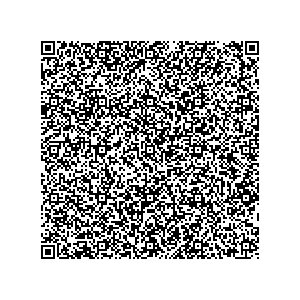
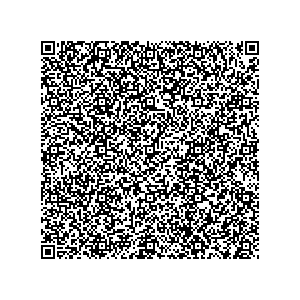
CH - Added new test data for Switzerland created with current release 1.1.

Changed region(s): [[0.12, 0.12, 0.87, 0.87]]

diff --git a/CH/README.md b/CH/README.md
@@ -9,7 +9,7 @@ The software used to produce the QR codes can be found at https://github.com/adm
 
 ### 1 - Vaccination
 
-[1.json](2DCode/raw/1.json) - Basic DGC with one vaccination entry. 
+[1.json](2DCode/raw/1.json) - Basic DGC with one vaccination entry (created with release 1.1).
 
 All tests should be successful.
 
@@ -19,7 +19,7 @@ All tests should be successful.
 
 ### 2 - Test
 
-[2.json](2DCode/raw/2.json) - Basic DGC with one test entry. 
+[2.json](2DCode/raw/2.json) - Basic DGC with one test entry (created with release 1.1).
 
 All tests should be successful.
 
@@ -29,7 +29,7 @@ All tests should be successful.
 
 ### 3 - Recovery
 
-[3.json](2DCode/raw/3.json) - Basic DGC with one test entry.
+[3.json](2DCode/raw/3.json) - Basic DGC with one test entry (created with release 1.1).
 
 All tests should be successful.
 
@@ -37,18 +37,9 @@ All tests should be successful.
 
 ![3](png/3.png)
 
-
-
-
-
-
-
-
-
-
 ### 4 - Vaccination
 
-[4.json](2DCode/raw/4.json) - Basic DGC with one vaccination entry. Optional claim "iss" has been changed to "CH".
+[4.json](2DCode/raw/4.json) - Basic DGC with one vaccination entry (created with release 1.0). 
 
 All tests should be successful.
 
@@ -58,7 +49,7 @@ All tests should be successful.
 
 ### 5 - Test
 
-[5.json](2DCode/raw/5.json) - Basic DGC with one test entry. Optional claim "iss" has been changed to "CH".
+[5.json](2DCode/raw/5.json) - Basic DGC with one test entry (created with release 1.0). 
 
 All tests should be successful.
 
@@ -68,10 +59,40 @@ All tests should be successful.
 
 ### 6 - Recovery
 
-[6.json](2DCode/raw/6.json) - Basic DGC with one test entry. Optional claim "iss" has been changed to "CH".
+[6.json](2DCode/raw/6.json) - Basic DGC with one test entry (created with release 1.0).
 
 All tests should be successful.
 
 [6.png](png/6.png)
 
 ![6](png/6.png)
+
+### 7 - Vaccination
+
+[7.json](2DCode/raw/7.json) - Basic DGC with one vaccination entry (created with release 1.0). Optional claim "iss" has been changed to "CH".
+
+All tests should be successful.
+
+[7.png](png/7.png)
+
+![7](png/7.png)
+
+### 8 - Test
+
+[8.json](2DCode/raw/8.json) - Basic DGC with one test entry (created with release 1.0). Optional claim "iss" has been changed to "CH".
+
+All tests should be successful.
+
+[8.png](png/8.png)
+
+![8](png/8.png)
+
+### 9 - Recovery
+
+[9.json](2DCode/raw/9.json) - Basic DGC with one test entry (created with release 1.0). Optional claim "iss" has been changed to "CH".
+
+All tests should be successful.
+
+[9.png](png/9.png)
+
+![9](png/9.png)
